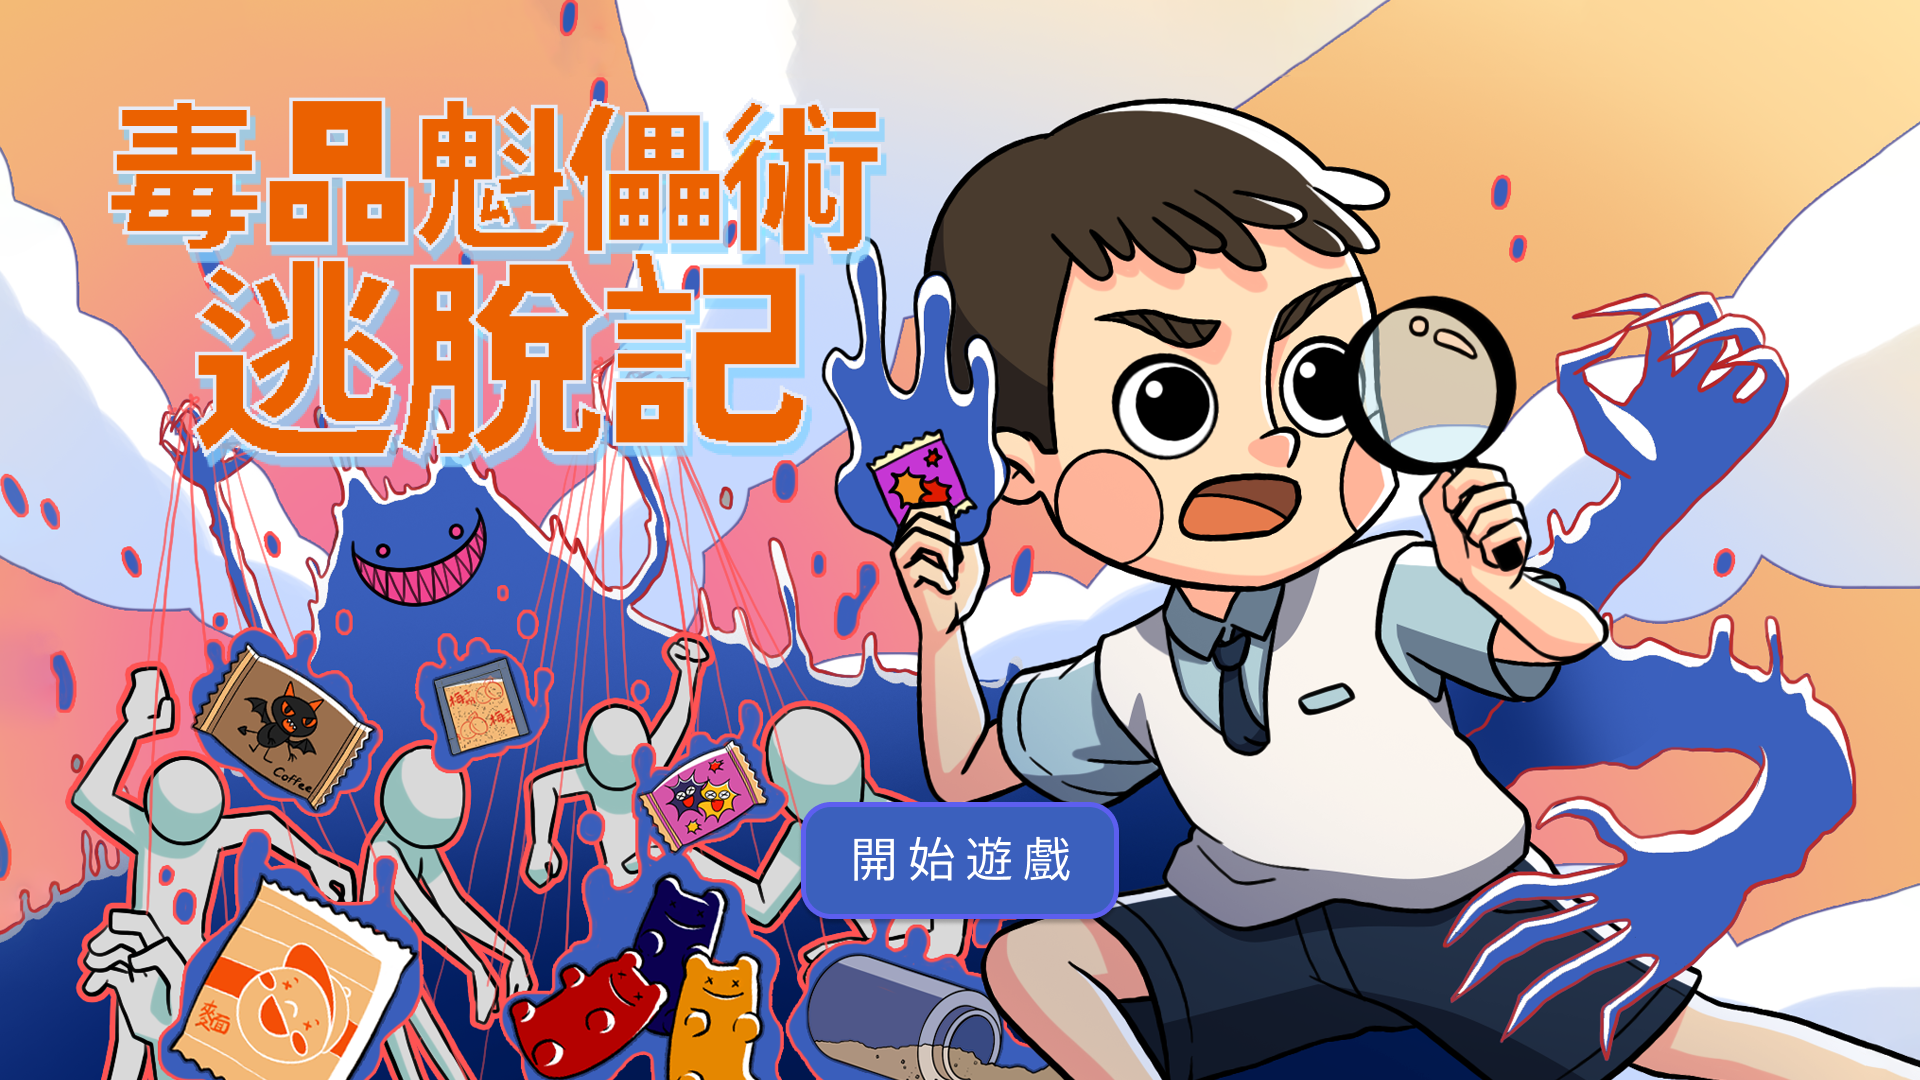
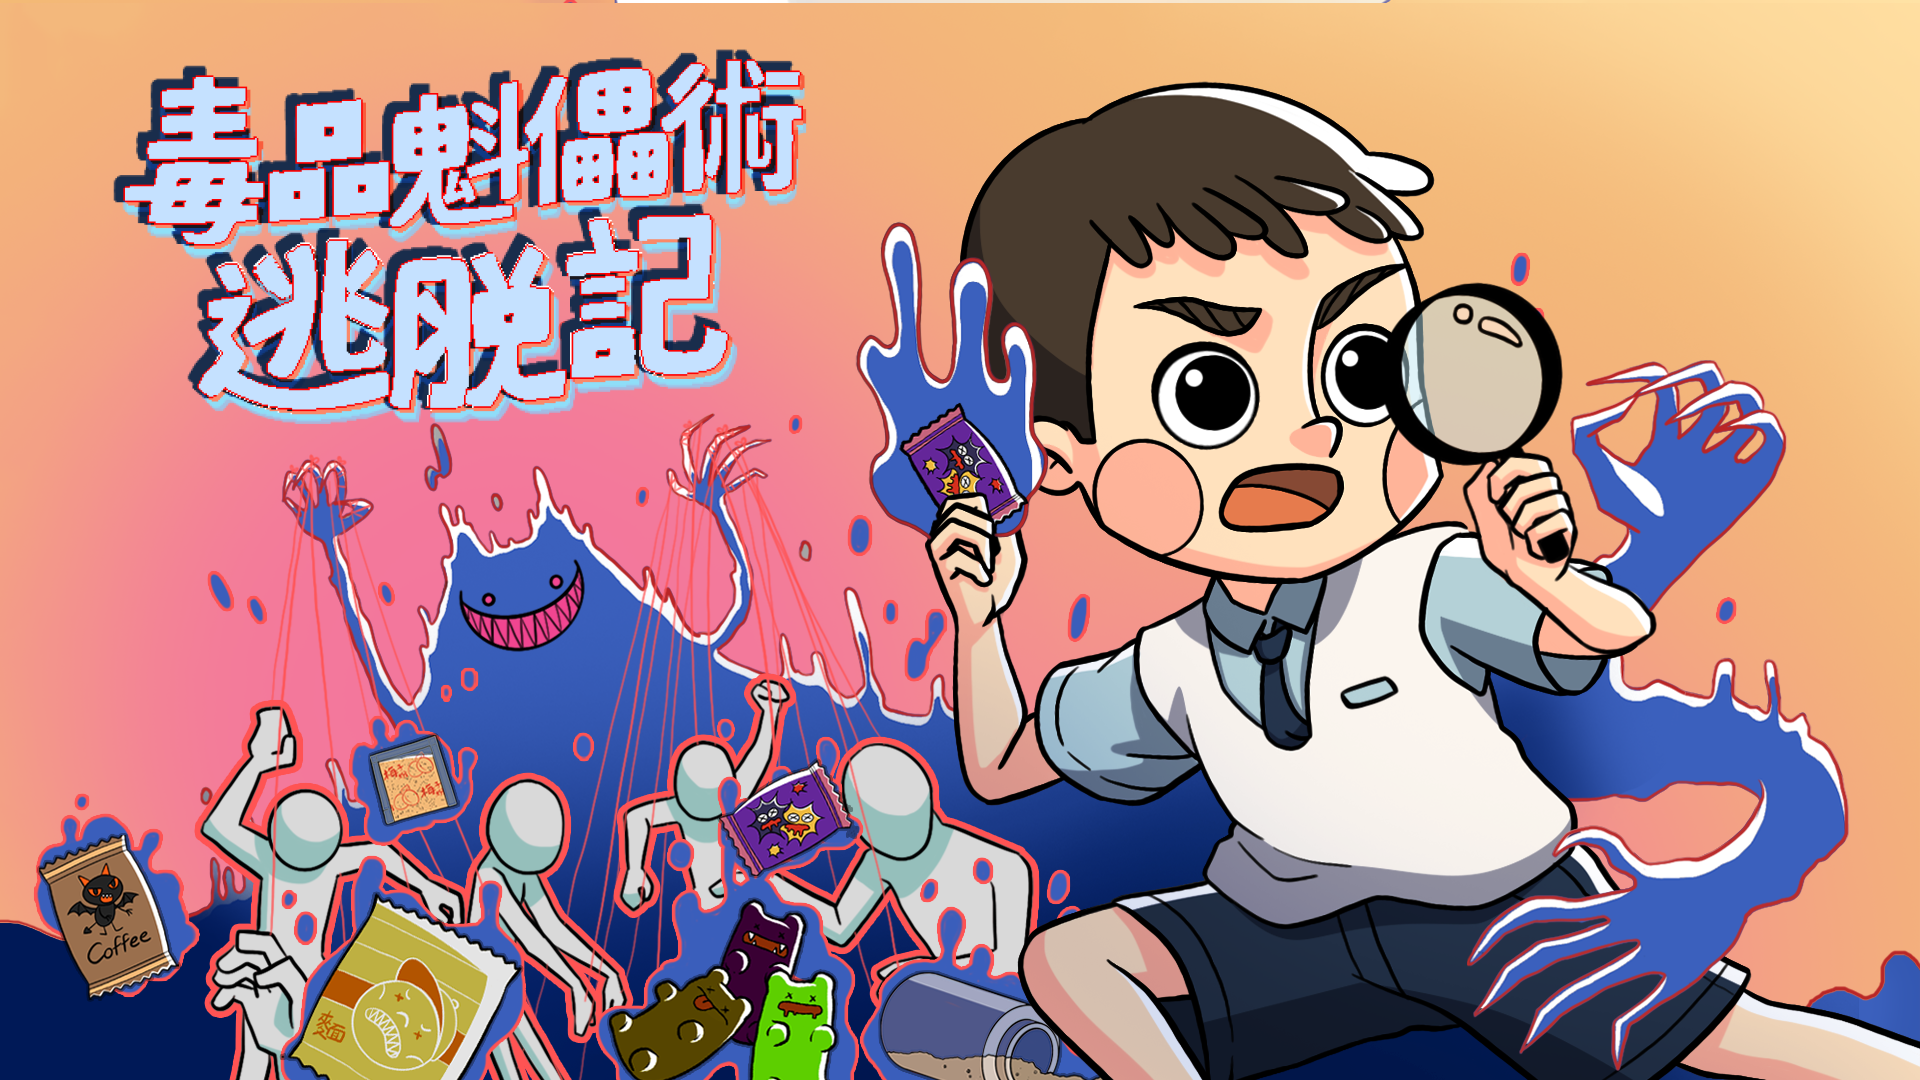
update_sources

diff --git a/src/static/css/main.css b/src/static/css/main.css
@@ -8,15 +8,15 @@ body {
     overflow-y: hidden;
 }
 
-
-.header {
-    background: #3B60BD;
-    height: 120px;
+.image { 
+    width: auto; 
+    height:114px; 
+    background-image: url(../src/static/assets/Header.svg); 
     filter: drop-shadow(0em .5em .1em rgba(255, 0, 0, 0.5));
-    position: relative;
+    padding: relative;
 }
 
-.headertype { 
+.header { 
     font-size: 48px;
     font-weight: bold;
     color: #fff;
@@ -35,10 +35,36 @@ body {
 
 .title-content{
     font-size: 30px;
-    font-weight: 400;
+    font-weight: 600;
     color: #fff;
     letter-spacing: 3px;
     filter: drop-shadow(5px 10px 2px rgba(10, 3, 10, 0.1));
+    background-color: #3B60BD; 
+    padding: 1rem 0rem 1rem 3rem; 
+    margin: 5rem 5rem 5rem 0rem;
+}
+
+.title-content2{
+    font-size: 30px;
+    font-weight: 600;
+    color: #fff;
+    letter-spacing: 3px;
+    filter: drop-shadow(5px 10px 2px rgba(10, 3, 10, 0.1));
+    background-color: #3B60BD; 
+    padding: 1rem; 
+    margin: 3rem;
+    text-align: center;
+}
+
+.title-contentwhite{
+    font-size: 22px;
+    font-weight: 600;
+    color: #3F3F3F;
+    letter-spacing: 3px;
+    filter: drop-shadow(5px 10px 2px rgba(10, 3, 10, 0.1));
+    background-color: #fff; 
+    padding: 1rem; 
+    margin: 3rem;
 }
 
 .content{
@@ -51,16 +77,12 @@ body {
     filter: drop-shadow(5px 10px 2px rgba(10, 3, 10, 0.1));
 }
 
-.carousel{
-    height: 100%;
-}
-
 .start_button{
-    width: 318px;
+    width: 300px;
     height: 117px;
     padding-top: 20px;
     font-size: 48px;
-    font-weight: 500;
+    font-weight: 600;
     color: #fff;
     background-color: #3B60BD;
     letter-spacing: 3px;
@@ -72,13 +94,113 @@ body {
 .start_button:hover {
     background-color: #FBFCD4;
     border: #5D5FEF 4px;
+    font-size: 55px;
+    font-weight: 600;
   }
 
 .back_button{
     color: aliceblue;
+}
 
+.back_button:hover {
+    background-color: #FBFCD4;
+    border: #5D5FEF 4px;
 }
 
 .carousel-indicators {
     position: fixed;
+    /* _carousel.scss:170 */
+    right: 0;
+    bottom: 10px;
+    left: 0;
+    z-index: 15;
+    display: flex;
+    justify-content: center;
+    padding-left: 0;
+}
+
+.carousel-control-prev-icon, .carousel-control-next-icon {
+    height: 50px;
+    width: 50px;
+    outline: #3B60BD;
+    background-color: rgb(61, 113, 255);
+    background-size: 100%, 100%;
+    border-radius: 50%;
+    position: fixed;
+}
+
+  .pop{
+    background-color: transparent;
+    font-size: 24px;
+    font-weight: 500;
   }
+
+.carousel-inner, .carousel, carousel-item {
+    overflow:visible;
+  }
+
+.img-fluid{
+    background-color: #3B60BD;
+}
+
+.card-title{
+    color: #3B60BD;
+    font-size: 40px;
+    font-weight: 600;
+    margin: 1rem 0rem 0.8rem 0rem;
+}
+
+.card-text{
+    color: #3F3F3F;
+    font-size: 24px;
+    font-weight: 550;
+    line-height: 36px;
+    letter-spacing: 3px;
+}
+
+.card-textSmall{
+    color: #3F3F3F;
+    font-size: 20px;
+    font-weight: 500;
+}
+
+.card{
+    filter: drop-shadow(5px 5px 2px rgba(0, 0, 0, 0.1));
+}
+
+.drug-title{
+    color: #fff;
+    font-size: 26px;
+    font-weight: 600;
+    margin: 1rem;
+    padding: 1rem;
+    background-color: #3B60BD;
+}
+
+.drug-text{
+    color: #3F3F3F;
+    font-size: 18px;
+    font-weight: 550;
+    line-height: 26px;
+    letter-spacing: 2px;
+}
+
+.game-text{
+    background-color: #E6EBF7;
+    color: #3B60BD;
+    font-size: 26px;
+    font-weight: 600;
+    filter: drop-shadow(10px 10px 2px rgba(255, 0, 0, 0.5));
+    padding: 1rem 0.2rem;
+    letter-spacing: 2px;
+}
+
+.have-drug-text{
+    background-color: #3B60BD;
+    color: #E6EBF7;
+    font-size: 26px;
+    font-weight: 600;
+    filter: drop-shadow(10px 10px 2px rgba(255, 0, 0, 0.5));
+    padding: 1rem 0.2rem;
+    letter-spacing: 2px;
+}

diff --git a/components/header.html b/components/header.html
@@ -15,23 +15,16 @@
 </head>
 
 <body>
-    <header class="row header ">
-        <div class="col-lg pie"></div>>
-            <div class="row align-items-center">
-                <div class="col-4">
-                    <div class="row justify-content-center" style="padding-bottom: 15rem;">
-                        <div class="col-6 col-md-8 headertype">
-                            <a href="../complete/game_play.html" style="color: aliceblue;">返回
-                                <img src="../src/static/assets/dashicons-arrow-left-alt.svg" alt="logo"
-                                    style="width: 60px; height:60px;">
-                            </a>
-                        </div>
-                    </div>
-                </div>
-
-                <div class="col-6" style="margin-left: 8rem;">
-                    <img src="../src/static/assets/logo_2.svg" alt="logo" style="width: 330px; height:180px;">
-
+    <header class="row image">
+        <img src="../src/static/assets/Header.svg">
+        <div class="col-lg-4">
+            <div class="row justify-content-center">
+                <div class="col-6 col-md-8 header" style="position:absolute; left: 300px; top: 42px;">
+                    <a href="../complete/game_play.html"
+                        style="color:aliceblue; font-weight:bold; text-decoration:none;">返回
+                        <img src="../src/static/assets/dashicons-arrow-left-alt.svg" alt="logo"
+                            style="width: 60px; height:60px;">
+                    </a>
                 </div>
             </div>
         </div>
